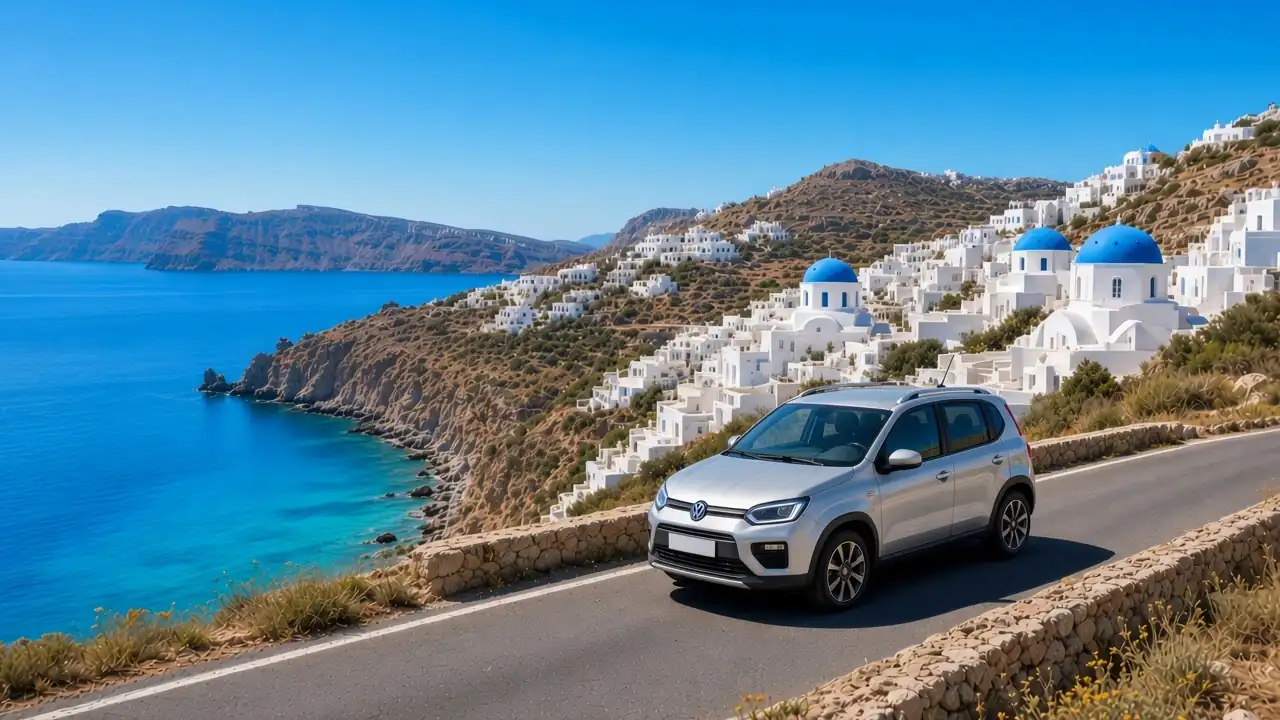
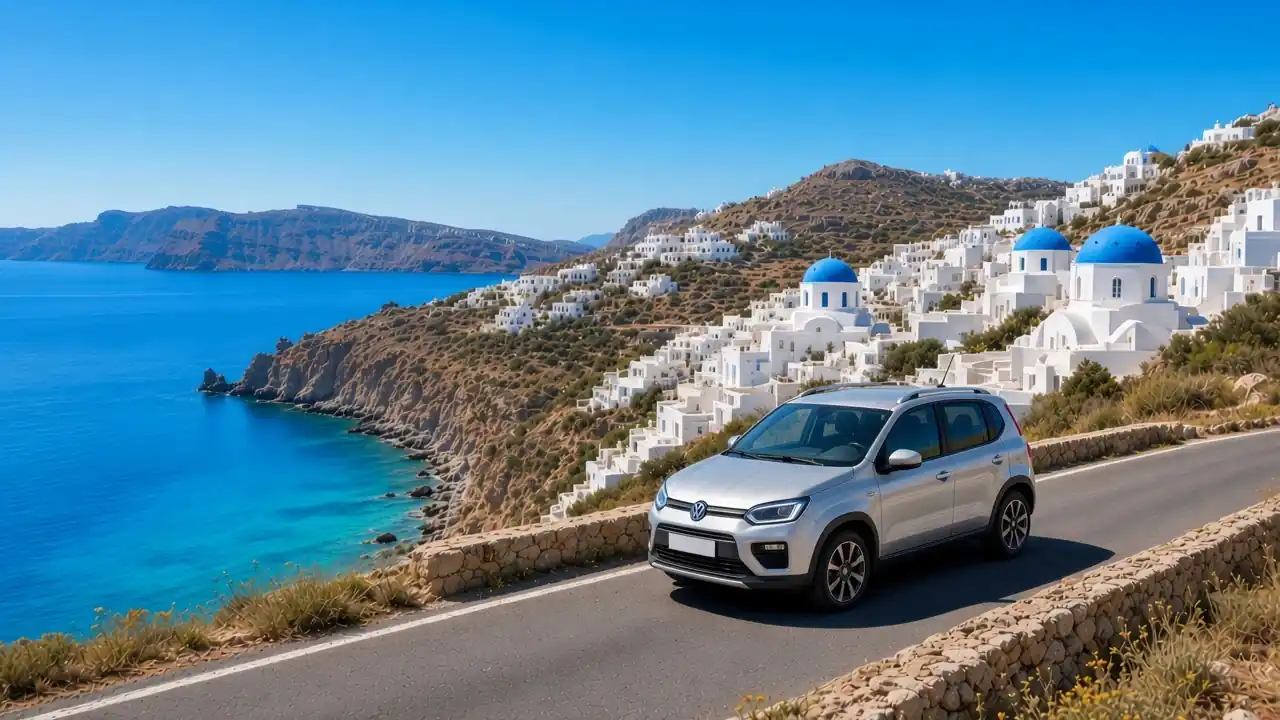
fix

diff --git a/app/components/reusable/FleetCarCard.vue b/app/components/reusable/FleetCarCard.vue
@@ -1,5 +1,7 @@
 <script setup lang="ts">
 const { t } = useI18n()
+
+
 type FleetCar = {
   id: string
   category: string
@@ -20,6 +22,8 @@ function onImgError(e: Event) {
   const img = e.target as HTMLImageElement
   if (img.dataset.fallback) return 
   img.dataset.fallback = '1'
+
+  img.removeAttribute('srcset')
   img.src = '/images/cars/placeholder.jpg'
 }
 </script>
@@ -31,7 +35,9 @@ function onImgError(e: Event) {
     <div class="relative w-full aspect-[4/3] bg-surface-2 flex items-center justify-center">
       <Icon name="car" size="40" stroke="1.2" class="text-ink-soft/40" />
       <img
-        :src="`/images/cars/${car.id}.webp`"
+        :src="`/images/cars/${car.id}-640.webp`"
+        :srcset="`/images/cars/${car.id}-320.webp 320w, /images/cars/${car.id}-640.webp 640w`"
+        sizes="(min-width: 960px) 33vw, (min-width: 640px) 50vw, 85vw"
         :alt="car.name"
         class="absolute inset-0 w-full h-full object-cover"
         loading="lazy"
